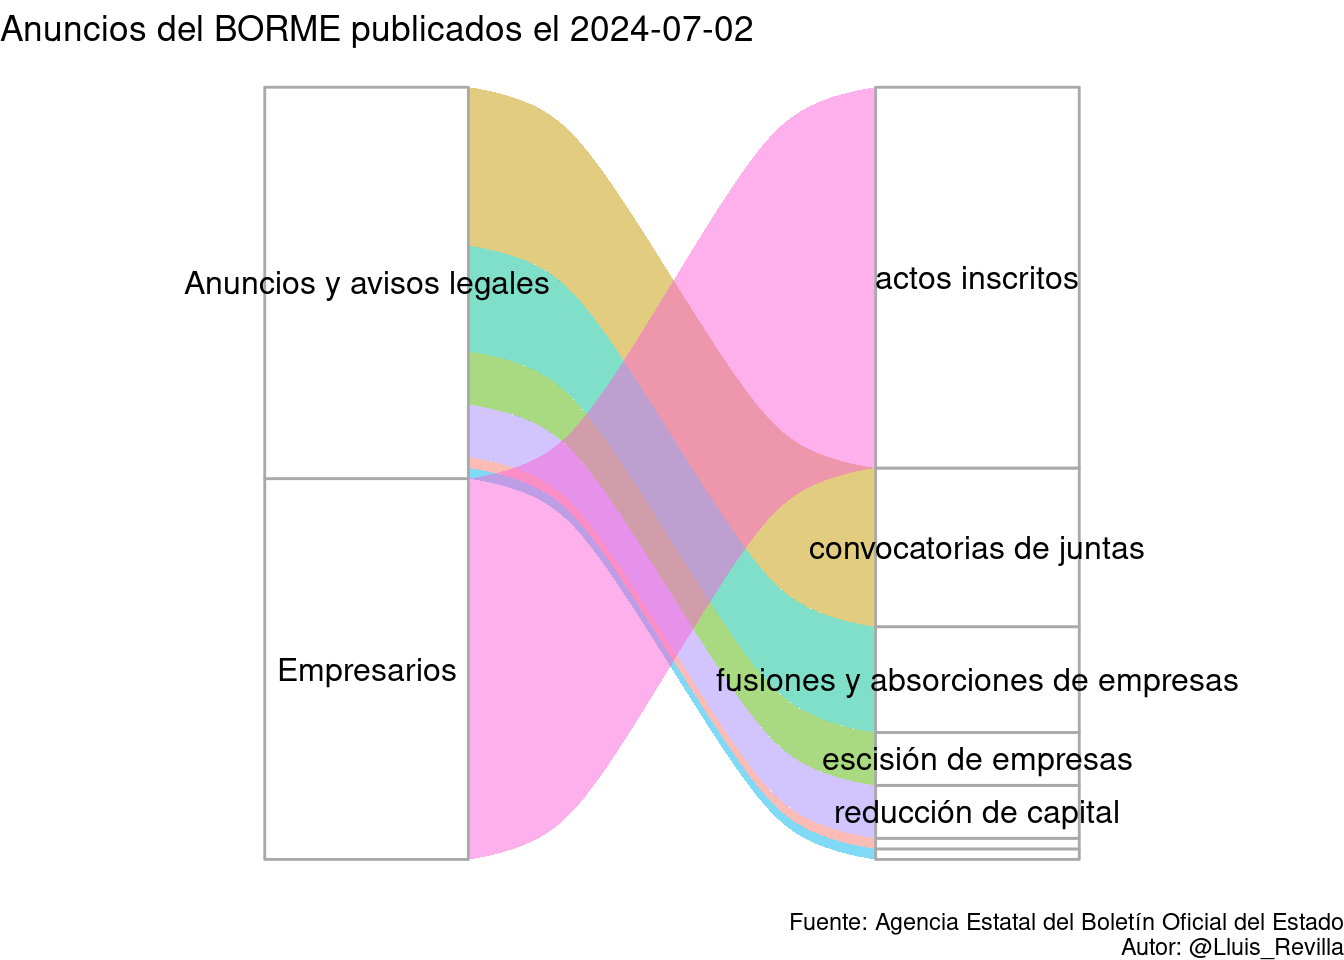
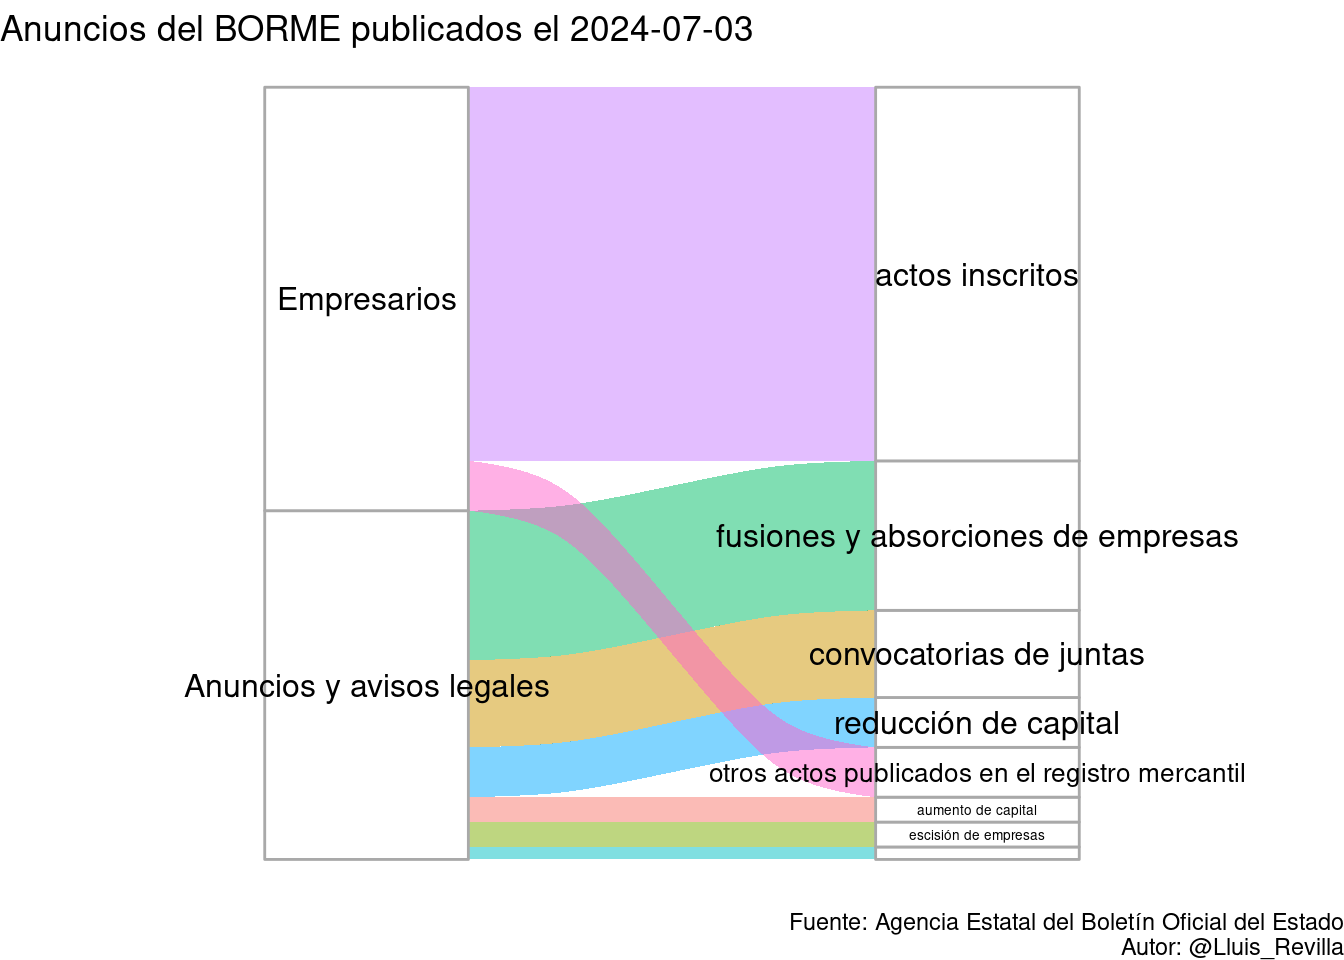
Update BORME

Changed region(s): [[0.125, 0.0938, 0.9375, 0.9062]]

diff --git a/docs/last_BORME.html b/docs/last_BORME.html
@@ -379,14 +379,14 @@ $(document).ready(function () {
 
 <div id="resumen-gráfico" class="section level1">
 <h1>Resumen gráfico</h1>
-<p>Esta página web contiene el último sumario del BORME publicado el 2024-07-02 con 73 publicaciones.</p>
+<p>Esta página web contiene el último sumario del BORME publicado el 2024-07-03 con 62 publicaciones.</p>
 <p><img src="last_BORME_files/figure-html/graphics-1.png" width="672" /></p>
 </div>
 <div id="tabla-de-publicaciones" class="section level1">
 <h1>Tabla de publicaciones</h1>
 <p>Aquí está la tabla completa con enlaces a las publicaciones:</p>
-<div class="datatables html-widget html-fill-item-overflow-hidden html-fill-item" id="htmlwidget-54bb7536ca21db8b7305" style="width:100%;height:auto;"></div>
-<script type="application/json" data-for="htmlwidget-54bb7536ca21db8b7305">{"x":{"filter":"top","vertical":false,"filterHTML":"<tr>\n  <td><\/td>\n  <td data-type=\"character\" style=\"vertical-align: top;\">\n    <div class=\"form-group has-feedback\" style=\"margin-bottom: auto;\">\n      <input type=\"search\" placeholder=\"All\" class=\"form-control\" style=\"width: 100%;\"/>\n      <span class=\"glyphicon glyphicon-remove-circle form-control-feedback\"><\/span>\n    <\/div>\n  <\/td>\n  <td data-type=\"character\" style=\"vertical-align: top;\">\n    <div class=\"form-group has-feedback\" style=\"margin-bottom: auto;\">\n      <input type=\"search\" placeholder=\"All\" class=\"form-control\" style=\"width: 100%;\"/>\n      <span class=\"glyphicon glyphicon-remove-circle form-control-feedback\"><\/span>\n    <\/div>\n  <\/td>\n  <td data-type=\"character\" style=\"vertical-align: top;\">\n    <div class=\"form-group has-feedback\" style=\"margin-bottom: auto;\">\n      <input type=\"search\" placeholder=\"All\" class=\"form-control\" style=\"width: 100%;\" disabled=\"\"/>\n      <span class=\"glyphicon glyphicon-remove-circle form-control-feedback\"><\/span>\n    <\/div>\n  <\/td>\n  <td data-type=\"character\" style=\"vertical-align: top;\">\n    <div class=\"form-group has-feedback\" style=\"margin-bottom: auto;\">\n      <input type=\"search\" placeholder=\"All\" class=\"form-control\" style=\"width: 100%;\"/>\n      <span class=\"glyphicon glyphicon-remove-circle form-control-feedback\"><\/span>\n    <\/div>\n  <\/td>\n<\/tr>","data":[["1","2","3","4","5","6","7","8","9","10","11","12","13","14","15","16","17","18","19","20","21","22","23","24","25","26","27","28","29","30","31","32","33","34","35","36","37","38","39","40","41","42","43","44","45","46","47","48","49","50","51","52","53","54","55","56","57","58","59","60","61","62","63","64","65","66","67","68","69","70","71","72","73"],["SECCIÓN PRIMERA. Empresarios","SECCIÓN PRIMERA. Empresarios","SECCIÓN PRIMERA. Empresarios","SECCIÓN PRIMERA. Empresarios","SECCIÓN PRIMERA. Empresarios","SECCIÓN PRIMERA. Empresarios","SECCIÓN PRIMERA. Empresarios","SECCIÓN PRIMERA. Empresarios","SECCIÓN PRIMERA. Empresarios","SECCIÓN PRIMERA. Empresarios","SECCIÓN PRIMERA. Empresarios","SECCIÓN PRIMERA. Empresarios","SECCIÓN PRIMERA. Empresarios","SECCIÓN PRIMERA. Empresarios","SECCIÓN PRIMERA. Empresarios","SECCIÓN PRIMERA. Empresarios","SECCIÓN PRIMERA. Empresarios","SECCIÓN PRIMERA. Empresarios","SECCIÓN PRIMERA. Empresarios","SECCIÓN PRIMERA. Empresarios","SECCIÓN PRIMERA. Empresarios","SECCIÓN PRIMERA. Empresarios","SECCIÓN PRIMERA. Empresarios","SECCIÓN PRIMERA. Empresarios","SECCIÓN PRIMERA. Empresarios","SECCIÓN PRIMERA. Empresarios","SECCIÓN PRIMERA. Empresarios","SECCIÓN PRIMERA. Empresarios","SECCIÓN PRIMERA. Empresarios","SECCIÓN PRIMERA. Empresarios","SECCIÓN PRIMERA. Empresarios","SECCIÓN PRIMERA. Empresarios","SECCIÓN PRIMERA. Empresarios","SECCIÓN PRIMERA. Empresarios","SECCIÓN PRIMERA. Empresarios","SECCIÓN PRIMERA. Empresarios","SECCIÓN SEGUNDA. Anuncios y avisos legales","SECCIÓN SEGUNDA. Anuncios y avisos legales","SECCIÓN SEGUNDA. Anuncios y avisos legales","SECCIÓN SEGUNDA. Anuncios y avisos legales","SECCIÓN SEGUNDA. Anuncios y avisos legales","SECCIÓN SEGUNDA. Anuncios y avisos legales","SECCIÓN SEGUNDA. Anuncios y avisos legales","SECCIÓN SEGUNDA. Anuncios y avisos legales","SECCIÓN SEGUNDA. Anuncios y avisos legales","SECCIÓN SEGUNDA. Anuncios y avisos legales","SECCIÓN SEGUNDA. Anuncios y avisos legales","SECCIÓN SEGUNDA. Anuncios y avisos legales","SECCIÓN SEGUNDA. Anuncios y avisos legales","SECCIÓN SEGUNDA. Anuncios y avisos legales","SECCIÓN SEGUNDA. Anuncios y avisos legales","SECCIÓN SEGUNDA. Anuncios y avisos legales","SECCIÓN SEGUNDA. Anuncios y avisos legales","SECCIÓN SEGUNDA. Anuncios y avisos legales","SECCIÓN SEGUNDA. Anuncios y avisos legales","SECCIÓN SEGUNDA. Anuncios y avisos legales","SECCIÓN SEGUNDA. Anuncios y avisos legales","SECCIÓN SEGUNDA. Anuncios y avisos legales","SECCIÓN SEGUNDA. Anuncios y avisos legales","SECCIÓN SEGUNDA. Anuncios y avisos legales","SECCIÓN SEGUNDA. Anuncios y avisos legales","SECCIÓN SEGUNDA. Anuncios y avisos legales","SECCIÓN SEGUNDA. Anuncios y avisos legales","SECCIÓN SEGUNDA. Anuncios y avisos legales","SECCIÓN SEGUNDA. Anuncios y avisos legales","SECCIÓN SEGUNDA. Anuncios y avisos legales","SECCIÓN SEGUNDA. Anuncios y avisos legales","SECCIÓN SEGUNDA. Anuncios y avisos legales","SECCIÓN SEGUNDA. Anuncios y avisos legales","SECCIÓN SEGUNDA. Anuncios y avisos legales","SECCIÓN SEGUNDA. Anuncios y avisos legales","SECCIÓN SEGUNDA. Anuncios y avisos legales","SECCIÓN SEGUNDA. Anuncios y avisos legales"],["Actos inscritos","Actos inscritos","Actos inscritos","Actos inscritos","Actos inscritos","Actos inscritos","Actos inscritos","Actos inscritos","Actos inscritos","Actos inscritos","Actos inscritos","Actos inscritos","Actos inscritos","Actos inscritos","Actos inscritos","Actos inscritos","Actos inscritos","Actos inscritos","Actos inscritos","Actos inscritos","Actos inscritos","Actos inscritos","Actos inscritos","Actos inscritos","Actos inscritos","Actos inscritos","Actos inscritos","Actos inscritos","Actos inscritos","Actos inscritos","Actos inscritos","Actos inscritos","Actos inscritos","Actos inscritos","Actos inscritos","Actos inscritos","CONVOCATORIAS DE JUNTAS","CONVOCATORIAS DE JUNTAS","CONVOCATORIAS DE JUNTAS","CONVOCATORIAS DE JUNTAS","CONVOCATORIAS DE JUNTAS","CONVOCATORIAS DE JUNTAS","CONVOCATORIAS DE JUNTAS","CONVOCATORIAS DE JUNTAS","CONVOCATORIAS DE JUNTAS","CONVOCATORIAS DE JUNTAS","CONVOCATORIAS DE JUNTAS","CONVOCATORIAS DE JUNTAS","CONVOCATORIAS DE JUNTAS","CONVOCATORIAS DE JUNTAS","CONVOCATORIAS DE JUNTAS","FUSIONES Y ABSORCIONES DE EMPRESAS","FUSIONES Y ABSORCIONES DE EMPRESAS","FUSIONES Y ABSORCIONES DE EMPRESAS","FUSIONES Y ABSORCIONES DE EMPRESAS","FUSIONES Y ABSORCIONES DE EMPRESAS","FUSIONES Y ABSORCIONES DE EMPRESAS","FUSIONES Y ABSORCIONES DE EMPRESAS","FUSIONES Y ABSORCIONES DE EMPRESAS","FUSIONES Y ABSORCIONES DE EMPRESAS","FUSIONES Y ABSORCIONES DE EMPRESAS","ESCISIÓN DE EMPRESAS","ESCISIÓN DE EMPRESAS","ESCISIÓN DE EMPRESAS","ESCISIÓN DE EMPRESAS","ESCISIÓN DE EMPRESAS","AUMENTO DE CAPITAL","REDUCCIÓN DE CAPITAL","REDUCCIÓN DE CAPITAL","REDUCCIÓN DE CAPITAL","REDUCCIÓN DE CAPITAL","REDUCCIÓN DE CAPITAL","OTROS ANUNCIOS Y AVISOS LEGALES"],[null,null,null,null,null,null,null,null,null,null,null,null,null,null,null,null,null,null,null,null,null,null,null,null,null,null,null,null,null,null,null,null,null,null,null,null,null,null,null,null,null,null,null,null,null,null,null,null,null,null,null,null,null,null,null,null,null,null,null,null,null,null,null,null,null,null,null,null,null,null,null,null,null],["BORME-A-2024-126-02","BORME-A-2024-126-03","BORME-A-2024-126-04","BORME-A-2024-126-05","BORME-A-2024-126-06","BORME-A-2024-126-07","BORME-A-2024-126-08","BORME-A-2024-126-10","BORME-A-2024-126-12","BORME-A-2024-126-14","BORME-A-2024-126-15","BORME-A-2024-126-16","BORME-A-2024-126-17","BORME-A-2024-126-18","BORME-A-2024-126-22","BORME-A-2024-126-23","BORME-A-2024-126-24","BORME-A-2024-126-26","BORME-A-2024-126-28","BORME-A-2024-126-30","BORME-A-2024-126-32","BORME-A-2024-126-33","BORME-A-2024-126-34","BORME-A-2024-126-35","BORME-A-2024-126-36","BORME-A-2024-126-38","BORME-A-2024-126-40","BORME-A-2024-126-41","BORME-A-2024-126-42","BORME-A-2024-126-44","BORME-A-2024-126-45","BORME-A-2024-126-46","BORME-A-2024-126-47","BORME-A-2024-126-48","BORME-A-2024-126-50","BORME-A-2024-126-99","BORME-C-2024-4049","BORME-C-2024-4050","BORME-C-2024-4051","BORME-C-2024-4052","BORME-C-2024-4053","BORME-C-2024-4054","BORME-C-2024-4055","BORME-C-2024-4056","BORME-C-2024-4057","BORME-C-2024-4058","BORME-C-2024-4059","BORME-C-2024-4060","BORME-C-2024-4061","BORME-C-2024-4062","BORME-C-2024-4063","BORME-C-2024-4064","BORME-C-2024-4065","BORME-C-2024-4066","BORME-C-2024-4067","BORME-C-2024-4068","BORME-C-2024-4069","BORME-C-2024-4070","BORME-C-2024-4071","BORME-C-2024-4072","BORME-C-2024-4073","BORME-C-2024-4074","BORME-C-2024-4075","BORME-C-2024-4076","BORME-C-2024-4077","BORME-C-2024-4078","BORME-C-2024-4079","BORME-C-2024-4080","BORME-C-2024-4081","BORME-C-2024-4082","BORME-C-2024-4083","BORME-C-2024-4084","BORME-C-2024-4085"]],"container":"<table class=\"display\">\n  <thead>\n    <tr>\n      <th> <\/th>\n      <th>Sección<\/th>\n      <th>Emisor<\/th>\n      <th>Texto<\/th>\n      <th>Link<\/th>\n    <\/tr>\n  <\/thead>\n<\/table>","options":{"pageLength":10,"autoWidth":true,"columnDefs":[{"orderable":false,"targets":0},{"name":" ","targets":0},{"name":"Sección","targets":1},{"name":"Emisor","targets":2},{"name":"Texto","targets":3},{"name":"Link","targets":4}],"order":[],"orderClasses":false,"orderCellsTop":true}},"evals":[],"jsHooks":[]}</script>
+<div class="datatables html-widget html-fill-item-overflow-hidden html-fill-item" id="htmlwidget-428970f3802e863a2182" style="width:100%;height:auto;"></div>
+<script type="application/json" data-for="htmlwidget-428970f3802e863a2182">{"x":{"filter":"top","vertical":false,"filterHTML":"<tr>\n  <td><\/td>\n  <td data-type=\"character\" style=\"vertical-align: top;\">\n    <div class=\"form-group has-feedback\" style=\"margin-bottom: auto;\">\n      <input type=\"search\" placeholder=\"All\" class=\"form-control\" style=\"width: 100%;\"/>\n      <span class=\"glyphicon glyphicon-remove-circle form-control-feedback\"><\/span>\n    <\/div>\n  <\/td>\n  <td data-type=\"character\" style=\"vertical-align: top;\">\n    <div class=\"form-group has-feedback\" style=\"margin-bottom: auto;\">\n      <input type=\"search\" placeholder=\"All\" class=\"form-control\" style=\"width: 100%;\"/>\n      <span class=\"glyphicon glyphicon-remove-circle form-control-feedback\"><\/span>\n    <\/div>\n  <\/td>\n  <td data-type=\"character\" style=\"vertical-align: top;\">\n    <div class=\"form-group has-feedback\" style=\"margin-bottom: auto;\">\n      <input type=\"search\" placeholder=\"All\" class=\"form-control\" style=\"width: 100%;\" disabled=\"\"/>\n      <span class=\"glyphicon glyphicon-remove-circle form-control-feedback\"><\/span>\n    <\/div>\n  <\/td>\n  <td data-type=\"character\" style=\"vertical-align: top;\">\n    <div class=\"form-group has-feedback\" style=\"margin-bottom: auto;\">\n      <input type=\"search\" placeholder=\"All\" class=\"form-control\" style=\"width: 100%;\"/>\n      <span class=\"glyphicon glyphicon-remove-circle form-control-feedback\"><\/span>\n    <\/div>\n  <\/td>\n<\/tr>","data":[["1","2","3","4","5","6","7","8","9","10","11","12","13","14","15","16","17","18","19","20","21","22","23","24","25","26","27","28","29","30","31","32","33","34","35","36","37","38","39","40","41","42","43","44","45","46","47","48","49","50","51","52","53","54","55","56","57","58","59","60","61","62"],["SECCIÓN PRIMERA. Empresarios","SECCIÓN PRIMERA. Empresarios","SECCIÓN PRIMERA. Empresarios","SECCIÓN PRIMERA. Empresarios","SECCIÓN PRIMERA. Empresarios","SECCIÓN PRIMERA. Empresarios","SECCIÓN PRIMERA. Empresarios","SECCIÓN PRIMERA. Empresarios","SECCIÓN PRIMERA. Empresarios","SECCIÓN PRIMERA. Empresarios","SECCIÓN PRIMERA. Empresarios","SECCIÓN PRIMERA. Empresarios","SECCIÓN PRIMERA. Empresarios","SECCIÓN PRIMERA. Empresarios","SECCIÓN PRIMERA. Empresarios","SECCIÓN PRIMERA. Empresarios","SECCIÓN PRIMERA. Empresarios","SECCIÓN PRIMERA. Empresarios","SECCIÓN PRIMERA. Empresarios","SECCIÓN PRIMERA. Empresarios","SECCIÓN PRIMERA. Empresarios","SECCIÓN PRIMERA. Empresarios","SECCIÓN PRIMERA. Empresarios","SECCIÓN PRIMERA. Empresarios","SECCIÓN PRIMERA. Empresarios","SECCIÓN PRIMERA. Empresarios","SECCIÓN PRIMERA. Empresarios","SECCIÓN PRIMERA. Empresarios","SECCIÓN PRIMERA. Empresarios","SECCIÓN PRIMERA. Empresarios","SECCIÓN PRIMERA. Empresarios","SECCIÓN PRIMERA. Empresarios","SECCIÓN PRIMERA. Empresarios","SECCIÓN PRIMERA. Empresarios","SECCIÓN SEGUNDA. Anuncios y avisos legales","SECCIÓN SEGUNDA. Anuncios y avisos legales","SECCIÓN SEGUNDA. Anuncios y avisos legales","SECCIÓN SEGUNDA. Anuncios y avisos legales","SECCIÓN SEGUNDA. Anuncios y avisos legales","SECCIÓN SEGUNDA. Anuncios y avisos legales","SECCIÓN SEGUNDA. Anuncios y avisos legales","SECCIÓN SEGUNDA. Anuncios y avisos legales","SECCIÓN SEGUNDA. Anuncios y avisos legales","SECCIÓN SEGUNDA. Anuncios y avisos legales","SECCIÓN SEGUNDA. Anuncios y avisos legales","SECCIÓN SEGUNDA. Anuncios y avisos legales","SECCIÓN SEGUNDA. Anuncios y avisos legales","SECCIÓN SEGUNDA. Anuncios y avisos legales","SECCIÓN SEGUNDA. Anuncios y avisos legales","SECCIÓN SEGUNDA. Anuncios y avisos legales","SECCIÓN SEGUNDA. Anuncios y avisos legales","SECCIÓN SEGUNDA. Anuncios y avisos legales","SECCIÓN SEGUNDA. Anuncios y avisos legales","SECCIÓN SEGUNDA. Anuncios y avisos legales","SECCIÓN SEGUNDA. Anuncios y avisos legales","SECCIÓN SEGUNDA. Anuncios y avisos legales","SECCIÓN SEGUNDA. Anuncios y avisos legales","SECCIÓN SEGUNDA. Anuncios y avisos legales","SECCIÓN SEGUNDA. Anuncios y avisos legales","SECCIÓN SEGUNDA. Anuncios y avisos legales","SECCIÓN SEGUNDA. Anuncios y avisos legales","SECCIÓN SEGUNDA. Anuncios y avisos legales"],["Actos inscritos","Actos inscritos","Actos inscritos","Actos inscritos","Actos inscritos","Actos inscritos","Actos inscritos","Actos inscritos","Actos inscritos","Actos inscritos","Actos inscritos","Actos inscritos","Actos inscritos","Actos inscritos","Actos inscritos","Actos inscritos","Actos inscritos","Actos inscritos","Actos inscritos","Actos inscritos","Actos inscritos","Actos inscritos","Actos inscritos","Actos inscritos","Actos inscritos","Actos inscritos","Actos inscritos","Actos inscritos","Actos inscritos","Actos inscritos","Otros actos publicados en el Registro Mercantil","Otros actos publicados en el Registro Mercantil","Otros actos publicados en el Registro Mercantil","Otros actos publicados en el Registro Mercantil","CONVOCATORIAS DE JUNTAS","CONVOCATORIAS DE JUNTAS","CONVOCATORIAS DE JUNTAS","CONVOCATORIAS DE JUNTAS","CONVOCATORIAS DE JUNTAS","CONVOCATORIAS DE JUNTAS","CONVOCATORIAS DE JUNTAS","FUSIONES Y ABSORCIONES DE EMPRESAS","FUSIONES Y ABSORCIONES DE EMPRESAS","FUSIONES Y ABSORCIONES DE EMPRESAS","FUSIONES Y ABSORCIONES DE EMPRESAS","FUSIONES Y ABSORCIONES DE EMPRESAS","FUSIONES Y ABSORCIONES DE EMPRESAS","FUSIONES Y ABSORCIONES DE EMPRESAS","FUSIONES Y ABSORCIONES DE EMPRESAS","FUSIONES Y ABSORCIONES DE EMPRESAS","FUSIONES Y ABSORCIONES DE EMPRESAS","FUSIONES Y ABSORCIONES DE EMPRESAS","FUSIONES Y ABSORCIONES DE EMPRESAS","ESCISIÓN DE EMPRESAS","ESCISIÓN DE EMPRESAS","AUMENTO DE CAPITAL","AUMENTO DE CAPITAL","REDUCCIÓN DE CAPITAL","REDUCCIÓN DE CAPITAL","REDUCCIÓN DE CAPITAL","REDUCCIÓN DE CAPITAL","OTROS ANUNCIOS Y AVISOS LEGALES"],[null,null,null,null,null,null,null,null,null,null,null,null,null,null,null,null,null,null,null,null,null,null,null,null,null,null,null,null,null,null,null,null,null,null,null,null,null,null,null,null,null,null,null,null,null,null,null,null,null,null,null,null,null,null,null,null,null,null,null,null,null,null],["BORME-A-2024-127-02","BORME-A-2024-127-03","BORME-A-2024-127-04","BORME-A-2024-127-06","BORME-A-2024-127-07","BORME-A-2024-127-08","BORME-A-2024-127-09","BORME-A-2024-127-15","BORME-A-2024-127-16","BORME-A-2024-127-17","BORME-A-2024-127-18","BORME-A-2024-127-23","BORME-A-2024-127-24","BORME-A-2024-127-25","BORME-A-2024-127-26","BORME-A-2024-127-28","BORME-A-2024-127-29","BORME-A-2024-127-30","BORME-A-2024-127-32","BORME-A-2024-127-35","BORME-A-2024-127-36","BORME-A-2024-127-38","BORME-A-2024-127-40","BORME-A-2024-127-43","BORME-A-2024-127-46","BORME-A-2024-127-47","BORME-A-2024-127-49","BORME-A-2024-127-50","BORME-A-2024-127-51","BORME-A-2024-127-99","BORME-B-2024-127-28","BORME-B-2024-127-29","BORME-B-2024-127-46","BORME-B-2024-127-47","BORME-C-2024-4086","BORME-C-2024-4087","BORME-C-2024-4088","BORME-C-2024-4089","BORME-C-2024-4090","BORME-C-2024-4091","BORME-C-2024-4092","BORME-C-2024-4093","BORME-C-2024-4094","BORME-C-2024-4095","BORME-C-2024-4096","BORME-C-2024-4097","BORME-C-2024-4098","BORME-C-2024-4099","BORME-C-2024-4100","BORME-C-2024-4101","BORME-C-2024-4102","BORME-C-2024-4103","BORME-C-2024-4104","BORME-C-2024-4105","BORME-C-2024-4106","BORME-C-2024-4107","BORME-C-2024-4108","BORME-C-2024-4109","BORME-C-2024-4110","BORME-C-2024-4111","BORME-C-2024-4112","BORME-C-2024-4113"]],"container":"<table class=\"display\">\n  <thead>\n    <tr>\n      <th> <\/th>\n      <th>Sección<\/th>\n      <th>Emisor<\/th>\n      <th>Texto<\/th>\n      <th>Link<\/th>\n    <\/tr>\n  <\/thead>\n<\/table>","options":{"pageLength":10,"autoWidth":true,"columnDefs":[{"orderable":false,"targets":0},{"name":" ","targets":0},{"name":"Sección","targets":1},{"name":"Emisor","targets":2},{"name":"Texto","targets":3},{"name":"Link","targets":4}],"order":[],"orderClasses":false,"orderCellsTop":true}},"evals":[],"jsHooks":[]}</script>
 </div>
 
 
